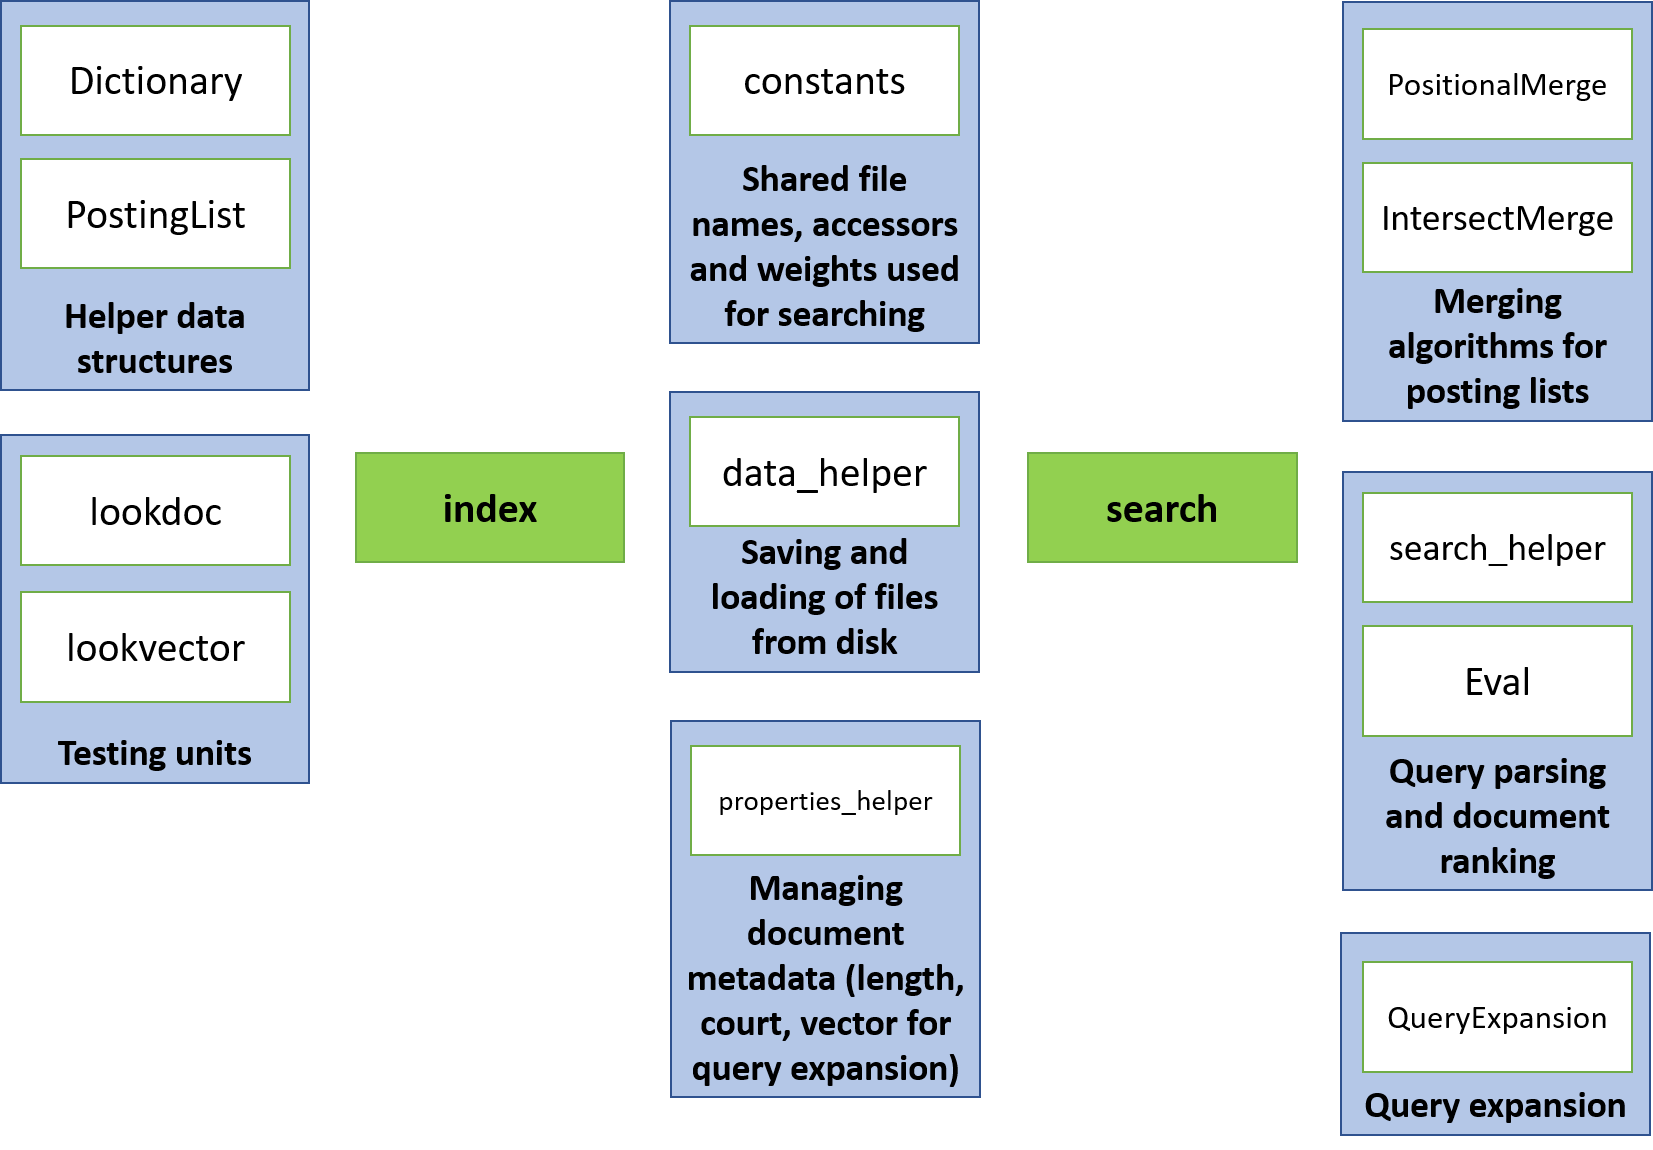
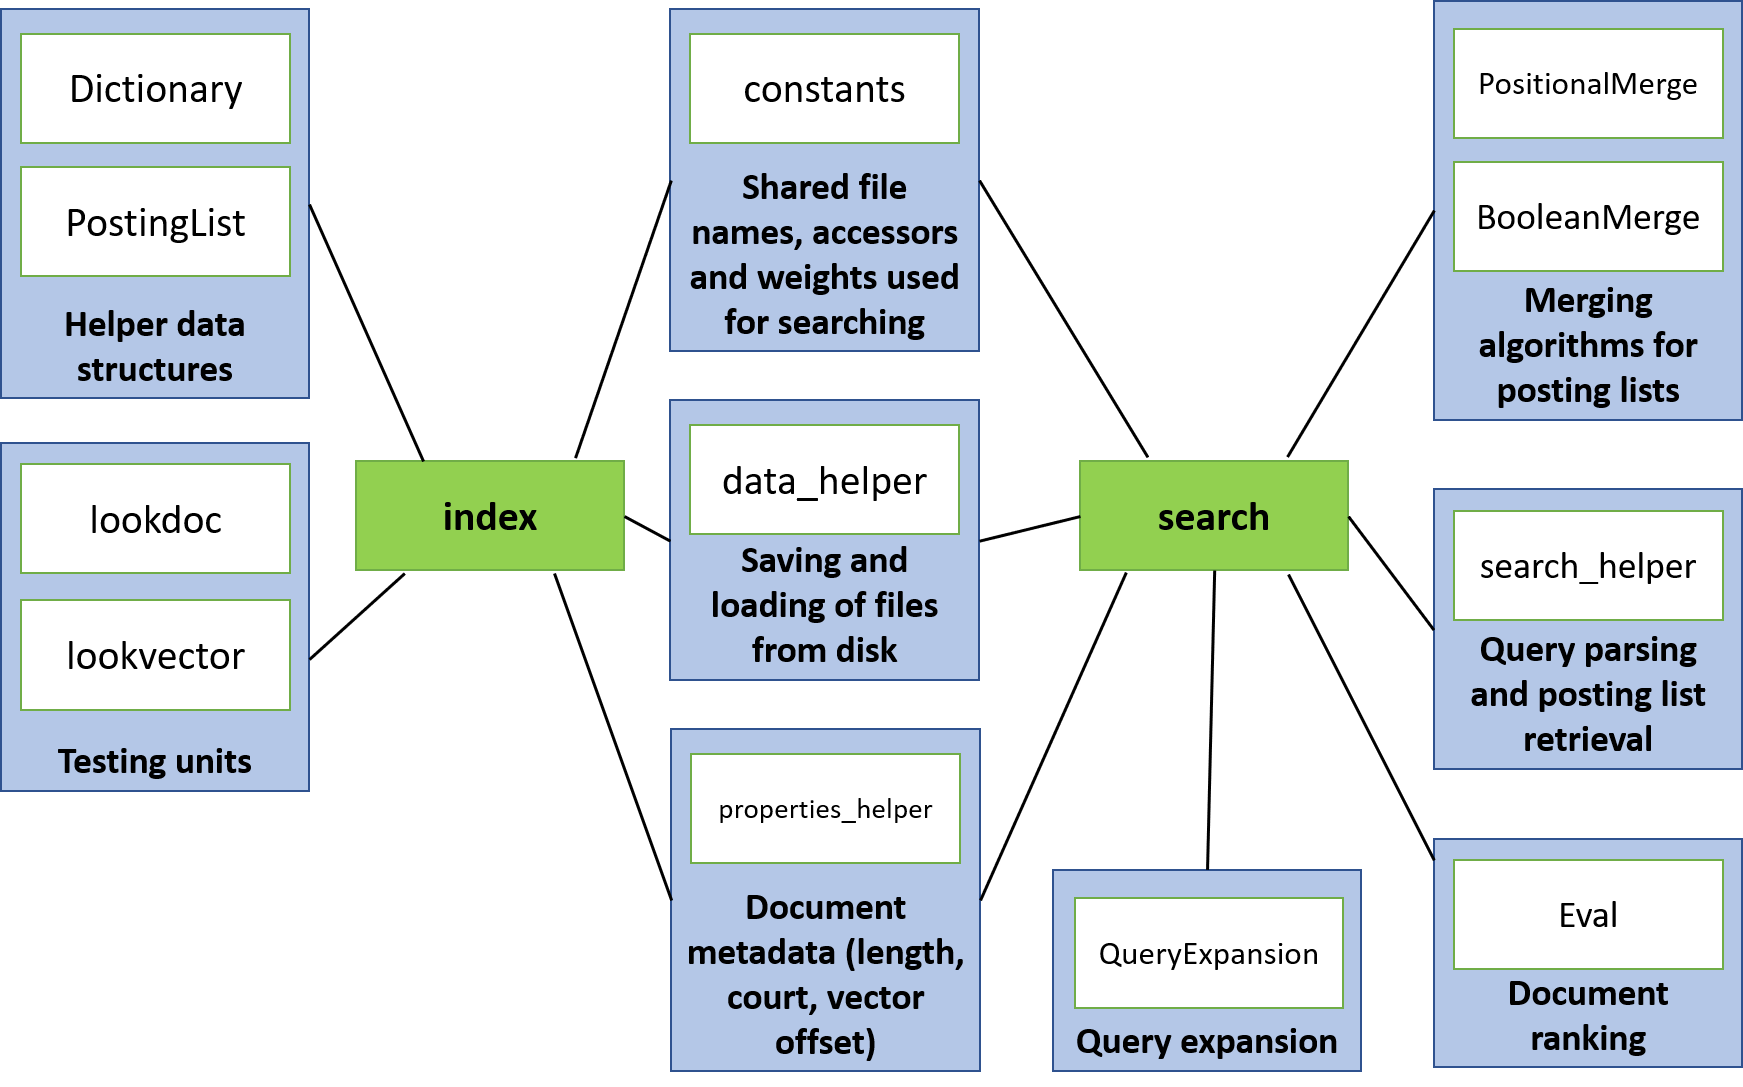
the indexing files look ok in terms of commenting.

diff --git a/PostingList.py b/PostingList.py
@@ -2,13 +2,14 @@ from data_helper import store_data_with_handler
 try:
     from tqdm import tqdm
 except ImportError:
-    tqdm = lambda *i, **kwargs: i[0]
-# tqdm = lambda *i, **kwargs: i[0] # this is to disable tqdm
+    tqdm = lambda *i, **kwargs: i[0] # disables tqdm
 
-
-### A Postings class that collects all the posting lists.
-### Each posting list is a dictionary mapping docIDs to term frequencies
-###
+'''
+A Postings class that collects all the posting lists.
+Each posting list is a dictionary mapping docIDs to a list [term frequency, list_of_positions]
+For example, doc1 has "egg" in position 1 and 15, doc2 has "egg" in position 3.
+"egg" -> { doc1 : [2, [1, 15]], doc2 : [1, [3]] }
+'''
 class PostingList():
 
     DOC_ID = None
@@ -52,11 +53,6 @@ class PostingList():
             new_entry = [docID] + posting[docID]
             sorted_list.append(new_entry)
 
-        # This is the new indexes
-        # PostingList.DOC_ID = 0
-        # PostingList.TF = 1
-        # PostingList.POSITION_LIST = 2
-        
         return sorted_list
 
     # Saves the posting lists to file, and update offset value in the dictionary

diff --git a/properties_helper.py b/properties_helper.py
@@ -10,6 +10,7 @@ def get_document_properties(properties_file):
 ########################### DEFINE CONSTANTS ###########################
 
 # docID --> [content_length, title_length, court_priority, date_posted, vector_offset, bigram_normalise_Factor, trigram_normalise_Factor]
+# Every property is assigned an index in the list of document properties
 NUM_DOCUMENT_PROPERTIES = 9
 CONTENT_LENGTH, TITLE_LENGTH, COURT_PRIORITY, DATE_POSTED, VECTOR_OFFSET, BIGRAM_CONTENT_LENGTH, TRIGRAM_CONTENT_LENGTH, BIGRAM_TITLE_LENGTH, TRIGRAM_TITLE_LENGTH = list(range(NUM_DOCUMENT_PROPERTIES))
 
@@ -46,6 +47,7 @@ def assign_property(docID, property_index, value):
     document_properties[docID][property_index] = value
 
 def update_court(docID, new_priority):
+    # only the highest court priority (smallest priority number) is saved
     document_properties[docID][COURT_PRIORITY] = min(document_properties[docID][COURT_PRIORITY], new_priority)
 
 ########################### PROCESSING METHODS ###########################

diff --git a/search.py b/search.py
@@ -48,7 +48,6 @@ def main():
     '''
     Main function for search loads in the dictionary and document properties file into memory and reads in
     the query file with the query string and the list of relevant documents known as the positive list.
-    ###
     '''
     if len(sys.argv) <= 1:
         dictionary_file, postings_file, query_file, file_of_output = DICTIONARY_FILE_TEST, POSTINGS_FILE_TEST, QUERY_FILE_TEST, OUTPUT_FILE_TEST
@@ -78,7 +77,7 @@ def main():
 
 def get_results(query_data, postings_handler, dictionary, doc_properties):
     '''
-
+    Returns an ordered list of documents for the query.
     :param query_data:
     :param postings_handler:
     :param dictionary:
@@ -86,6 +85,7 @@ def get_results(query_data, postings_handler, dictionary, doc_properties):
     '''
     original_query_string = query_data[0]
     queries = get_new_query_strings(original_query_string)
+
     positive_list = query_data[1:]
     result = [] + positive_list
     result_set = set(result)

diff --git a/Dictionary.py b/Dictionary.py
@@ -1,11 +1,10 @@
 from data_helper import store_data
 
-# A dictionary class that keeps track of terms --> document_frequency/ idf, termID/ term_offset
-# termID is a sequential value to access the posting list of the term at indexing time
-# term_offset is the exact position (in bytes) of the term posting list in postings.txt
-###
-
-
+'''
+A dictionary class that keeps track of terms --> document_frequency/ idf, termID/ term_offset.
+termID is a sequential value to access the posting list of the term at indexing time
+term_offset is the exact position (in bytes) of the term posting list in postings.txt
+'''
 class Dictionary():
 
     DF = 0

diff --git a/BooleanMerge.py b/BooleanMerge.py
@@ -1,3 +1,7 @@
+'''
+The BooleanMerge module does a hard conjunction (AND) for posting lists
+'''
+
 import math
 
 DOC_ID_INDEX = 0
